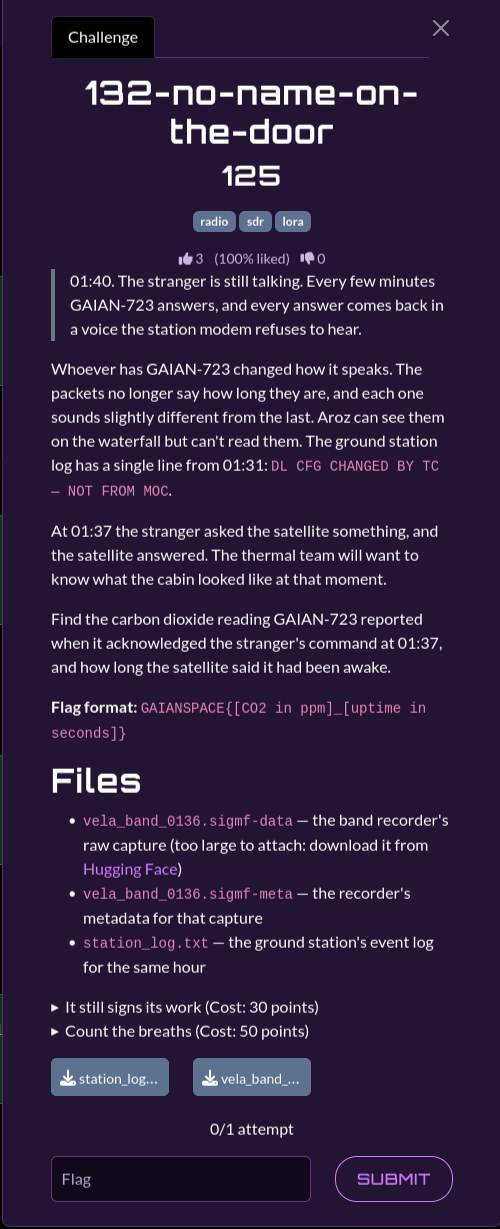
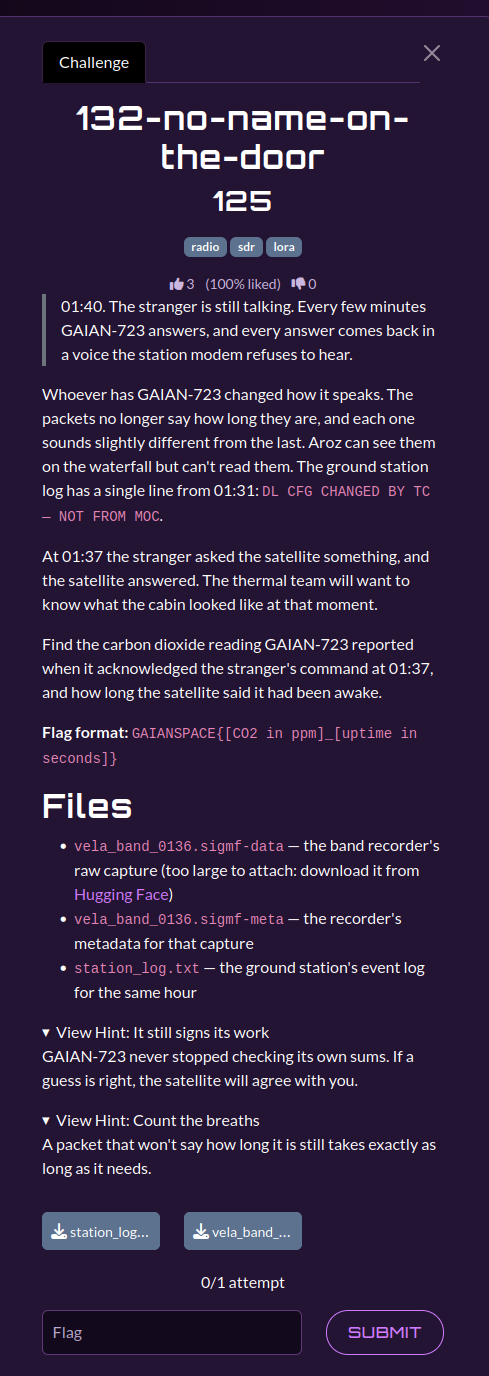
Update README.md

Changed region(s): [[0.0, 0.0, 1.0, 1.0], [0.8589, 0.0, 0.8896, 0.0618]]

diff --git a/13-night-shift/134-repacked/README.md b/13-night-shift/134-repacked/README.md
@@ -23,6 +23,13 @@ Somewhere in the repacked frames, GAIAN-723 is carrying something it was never d
 - `vela_band_0302.sigmf-meta` — the recorder's metadata for that capture
 - `last_good_frame.csv` — the last telemetry line the MOC decoded before 01:12, with the old column names
 
+## Hints
+
+Two hints were released during the event:
+
+1. **Same air, same room** — Nothing GAIAN-723 measures has changed since the last good line. Only the way it writes the numbers down has.
+2. **A borrowed habit** — The stranger did not invent a new way to hide the frames. They reused something GAIAN-723 already does to every packet, and started it from a number each frame carries in plain sight.
+
 ## Solution
 
 ### Steps

diff --git a/13-night-shift/132-no-name-on-the-door/README.md b/13-night-shift/132-no-name-on-the-door/README.md
@@ -22,6 +22,13 @@ Find the carbon dioxide reading GAIAN-723 reported when it acknowledged the stra
 - `vela_band_0136.sigmf-meta` — SigMF capture metadata.
 - `station_log.txt` — station event and receiver-lock history.
 
+## Hints
+
+Two hints were released during the event:
+
+1. **It still signs its work** — GAIAN-723 never stopped checking its own sums. If a guess is right, the satellite will agree with you.
+2. **Count the breaths** — A packet that won't say how long it is still takes exactly as long as it needs.
+
 ## Solution
 
 ### Analysis

diff --git a/13-night-shift/131-two-voices/README.md b/13-night-shift/131-two-voices/README.md
@@ -25,6 +25,13 @@ Find out what GAIAN-723 answered when the stranger first called it.
 - `vela_band_0114.sigmf-meta` — the recorder's metadata for that capture
 - `desk_notes.md` — Aroz's notes from the same watch; they can be wrong
 
+## Hints
+
+Two hints were released during the event:
+
+1. **Not the same accent** — The two voices do not sound alike. Whatever works for one will not work for the other.
+2. **The sheet is older than the night** — Trust what the recording shows over what is pinned to the wall.
+
 ## Solution
 
 ### Analysis

diff --git a/13-night-shift/133-hopscotch/README.md b/13-night-shift/133-hopscotch/README.md
@@ -23,6 +23,13 @@ Put the answer back together.
 - `vela_wide_0212.sigmf-meta` — the recorder's metadata for that capture
 - `chat.txt` — what came in on Aroz's phone while the recorder ran
 
+## Hints
+
+Two hints were released during the event:
+
+1. **Same voice, many rooms** — Wherever it lands, GAIAN-723 still sounds exactly like it did at 01:14.
+2. **Steps, not slides** — It only ever jumps between words, never in the middle of one, and it never wanders far from where it was told to stand.
+
 ## Solution
 
 ### Steps

diff --git a/13-night-shift/135-what-they-took/README.md b/13-night-shift/135-what-they-took/README.md
@@ -23,6 +23,13 @@ Recover it.
 - `vela_band_0347.sigmf-meta` — the recorder's metadata for that capture
 - `chat.txt` — the last messages on Aroz's phone before the report
 
+## Hints
+
+Two hints were released during the event:
+
+1. **Old habits** — The flight computer has written memory dumps the same way for years. The stranger only changed what happens after it is written.
+2. **Small locks** — A lock made in a hurry does not have many keys.
+
 ## Solution
 
 ### Steps
